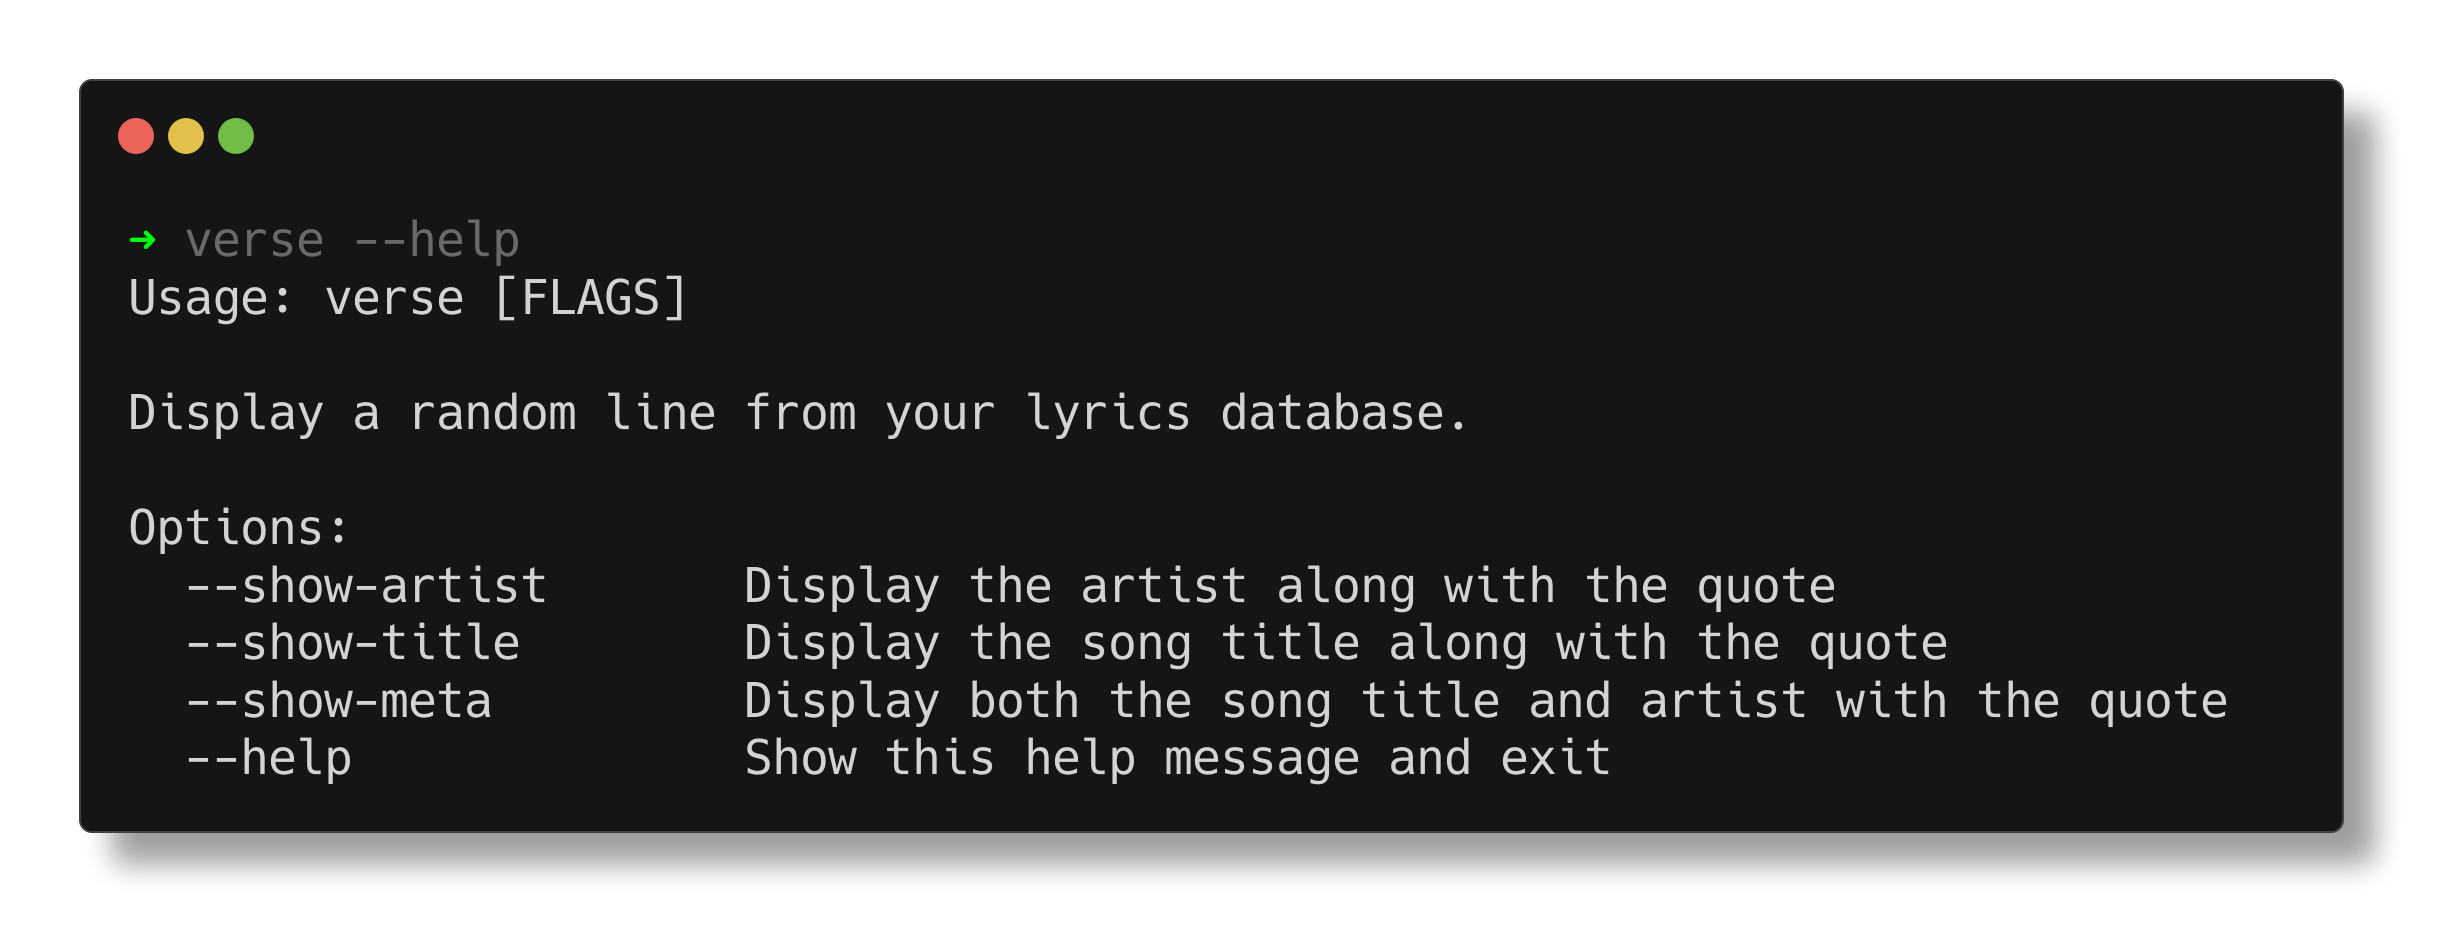
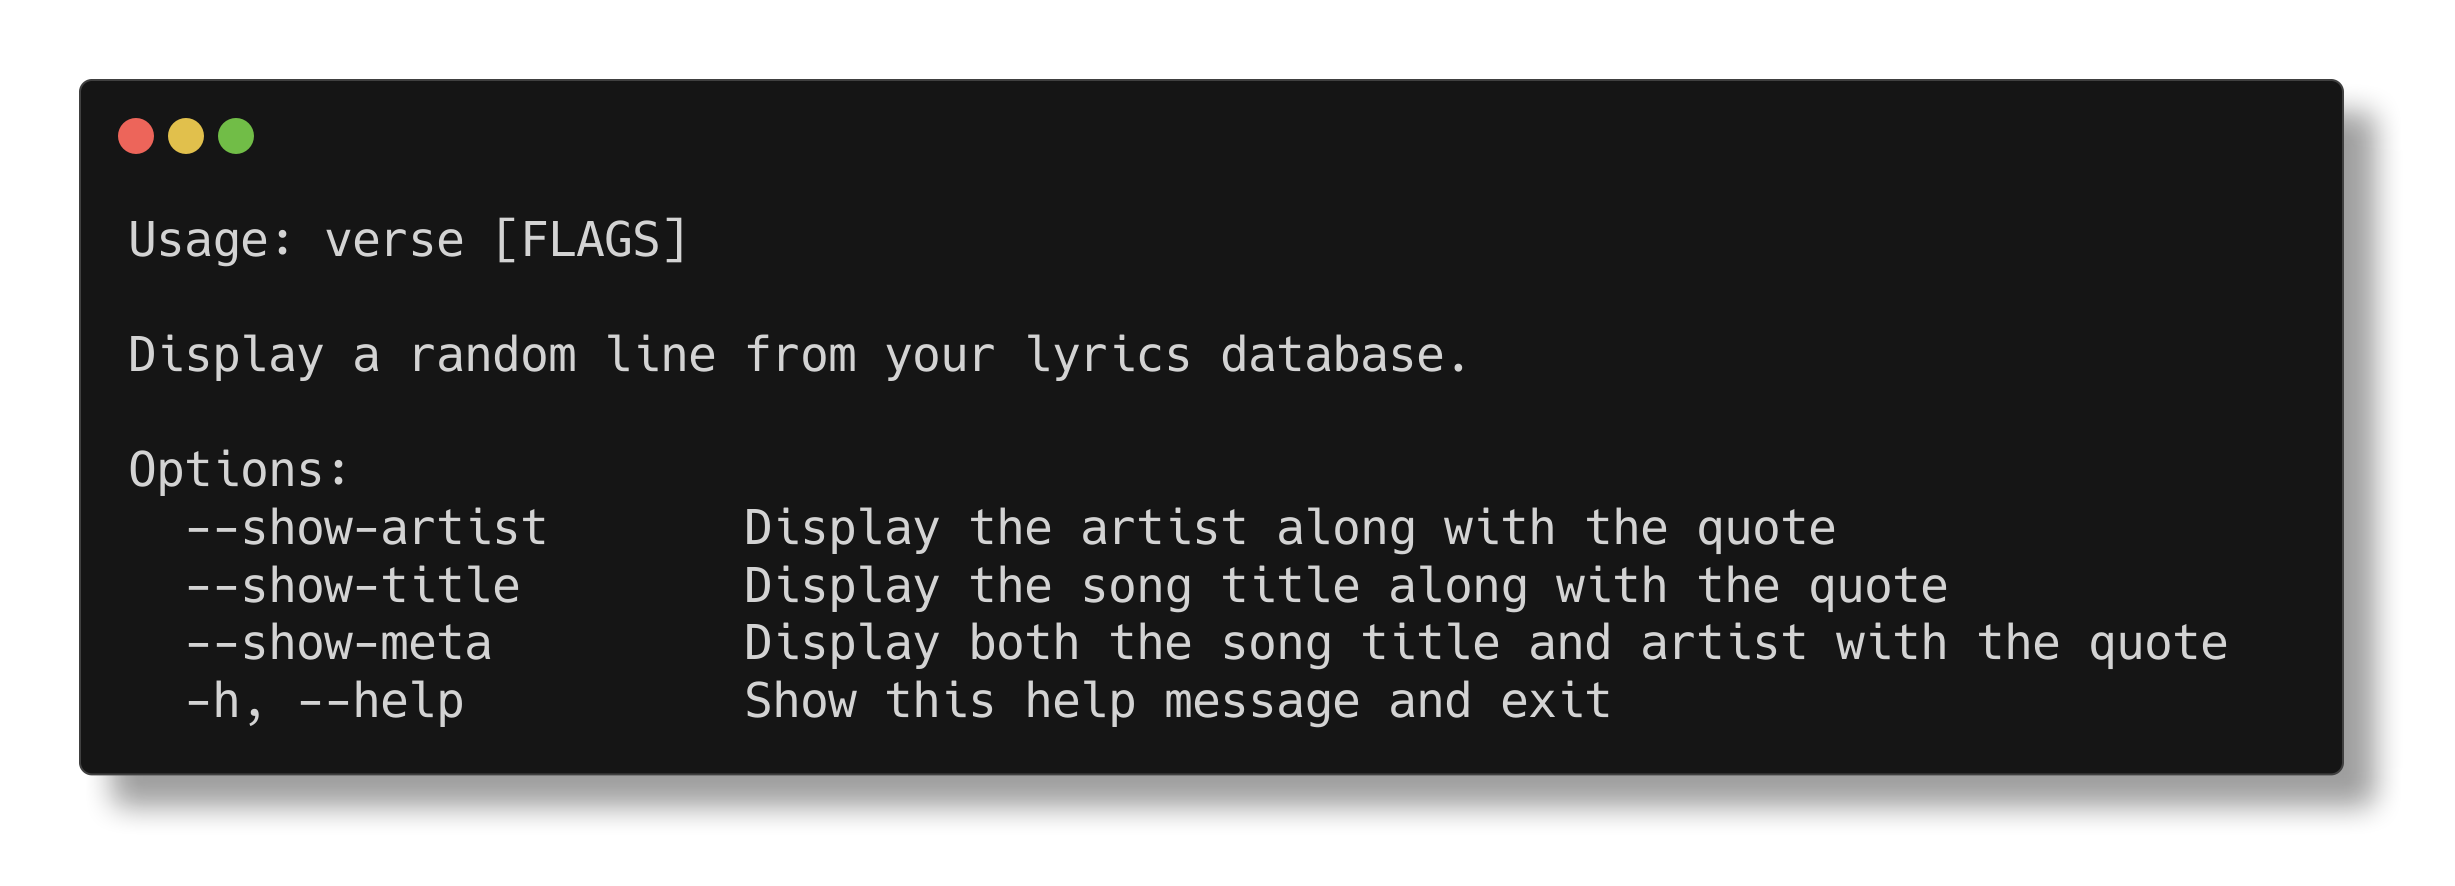
fix(-h flag): added -h flag

diff --git a/src/main.c b/src/main.c
@@ -29,6 +29,9 @@ int main(int argc, char* argv[]) {
         } else if (strcmp(argv[i], "--help") == 0) {
             print_help();
             return 0;
+        } else if (strcmp(argv[i], "-h") == 0) {
+            print_help();
+            return 0;
         }
     }
 
@@ -43,7 +46,7 @@ int main(int argc, char* argv[]) {
         return 1;
     }
 
-    char        lines[MAX_LINES];
+    char         lines[MAX_LINES];
     static char* artist = NULL;
     static char* title  = NULL;
     //
@@ -80,5 +83,5 @@ static void print_help(void) {
     printf("  --show-artist       Display the artist along with the quote\n");
     printf("  --show-title        Display the song title along with the quote\n");
     printf("  --show-meta         Display both the song title and artist with the quote\n");
-    printf("  --help              Show this help message and exit\n");
+    printf("  -h, --help          Show this help message and exit\n");
 }
